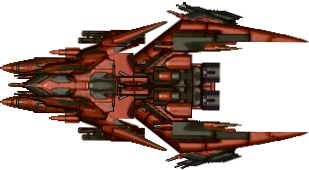
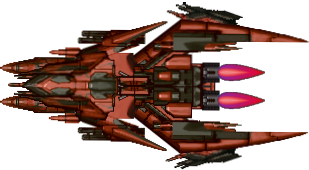
updated view.js / readme.md / updated enemy ship image / updated kill rewards - [X] change player spaceship sprite - [X] change game economy small/med/lrg asteroids & enemy bounty - [X] make pause menu same as end game menu without "game over"

Changed region(s): [[0.699, 0.5294, 0.8738, 0.6471], [0.699, 0.3529, 0.8738, 0.5]]

diff --git a/public_html/game/js/controller.js b/public_html/game/js/controller.js
@@ -97,8 +97,8 @@ class Controller {
                     let remainingAngle = 90 - shipDegree;
                     let x = (100 * Math.sin(remainingAngle * Math.PI / 180)) / Math.sin(90 * Math.PI / 180);
                     let y = (100 * Math.sin(shipDegree * Math.PI / 180)) / Math.sin(90 * Math.PI / 180);
-                    enemy.ammunition[i].x += x / 100;
-                    enemy.ammunition[i].y -= y / 100;
+                    enemy.ammunition[i].x += x / 50;
+                    enemy.ammunition[i].y -= y / 50;
                     enemy.ammunition[i].rangeTravelled += Math.abs(x);
                 }
             }
@@ -186,7 +186,7 @@ class Controller {
                         this.makeNewAsteroid(x, y, width, height, vertVelocity, horzVelocity, angle, size);
                     }
                     model.asteroidArray[asteroid].asteroidExplodeSound.play();
-                    if (model.asteroidArray[asteroid].destroyedByPlayer) model.playerScore += 10;
+                    if (model.asteroidArray[asteroid].destroyedByPlayer) model.playerScore += 100;
                     model.asteroidArray.splice(asteroid, 1); // remove old asteroid
                     model.asteroidCount--;
                     model.totalLargeAsteroidsDestroyed += 1;
@@ -221,7 +221,7 @@ class Controller {
                     newExplosion.isSmallAsteroid = true;
                     model.explosionArray.push(newExplosion);
                     model.asteroidArray[asteroid].asteroidExplodeSound.play();
-                    if (model.asteroidArray[asteroid].destroyedByPlayer) model.playerScore += 100;
+                    if (model.asteroidArray[asteroid].destroyedByPlayer) model.playerScore += 10;
                     model.asteroidArray.splice(asteroid, 1);
                     model.asteroidCount--;
                     model.totalSmallAsteroidsDestroyed += 1;
@@ -250,6 +250,7 @@ class Controller {
                 model.player.playerDied();
                 model.numPlayerLives--; // player loses 1 life
                 if (model.numPlayerLives === 0) {
+                    for (let a = 0; a < model.enemyArray.length; a++) model.enemyArray[a].enemyDied(); // remove enemy ships from map on player death
                     console.log('game over event');
                     model.gameOver = true;
                 }
@@ -277,7 +278,7 @@ class Controller {
                     model.player.playerDied();
                     model.numPlayerLives--; // player loses 1 life
                     if (model.numPlayerLives === 0) {
-                        enemy.enemyDied();
+                        for (let a = 0; a < model.enemyArray.length; a++) model.enemyArray[a].enemyDied(); // remove enemy ships from map on player death
                         console.log('game over event');
                         model.gameOver = true;
                     }
@@ -331,6 +332,7 @@ class Controller {
                         let newExplosion = new Explosion(enemyShip.x, enemyShip.y);
                         newExplosion.isEnemy = true;
                         model.explosionArray.push(newExplosion);
+                        enemyShip.destroyedByPlayer = true;
                         enemyShip.enemyDied();
                     } else {
                         enemyShip.health--;
@@ -353,8 +355,13 @@ class Controller {
                 let enemyY = enemyShip.y + enemyShip.height / 2.5;
                 if ((enemyX <= asteroidXRadiusRight && enemyX >= asteroidXRadiusLeft) &&
                     enemyY <= asteroidYRadiusDown && enemyY >= asteroidYRadiusUp && enemyShip.isAlive) {
-                    if (enemyShip.health === 0) enemyShip.enemyDied();
-                    else {
+                    if (enemyShip.health === 0) {
+                        let newExplosion = new Explosion(enemyShip.x, enemyShip.y);
+                        newExplosion.isEnemy = true;
+                        model.explosionArray.push(newExplosion);
+                        enemyShip.destroyedByAsteroid = true;
+                        enemyShip.enemyDied();
+                    } else {
                         enemyShip.health--;
                         console.log('enemy ship hit by asteroid health : ', enemyShip.health);
                         enemyShip.isHit = true;
@@ -365,8 +372,14 @@ class Controller {
         // check if enemy is dead and remove it from game / give player bounty
         for (let j = 0; j < model.enemyArray.length; j++) {
             if (!model.enemyArray[j].isAlive) {
-                model.enemyArray.splice(j, 1); // remove enemy from enemy array
-                // update player bounty--------------------------------------------------------------------------------------
+                if (model.enemyArray[j].destroyedByAsteroid) model.enemyArray.splice(j, 1); // remove enemy from enemy array
+                else if (model.enemyArray[j].destroyedByPlayer) {
+                    model.enemyArray.splice(j, 1); // remove enemy from enemy array
+                    model.playerScore += 500; // add 500 to player score
+                    model.enemiesDestroyed++;
+                } else {
+                    console.log('enemy killed by neither asteroid or player, must be game reset');
+                }
             }
         }
     }

diff --git a/public_html/game/js/enemy.js b/public_html/game/js/enemy.js
@@ -1,5 +1,7 @@
 class Enemy {
     constructor() {
+        // pause flag, to pause shooting when game is paused
+        this.pause = false;
 
         // enemy spawn sound
         this.spawnSound = new Howl({ src: ['/public_html/game/sounds/enemy_spawn.mp3'] });
@@ -38,24 +40,30 @@ class Enemy {
         // ammo
         this.ammunition = [];
         this.initializeWeapons();
+
+        // who destroyed this enemy
+        this.destroyedByPlayer = false;
+        this.destroyedByAsteroid = false;
+
     }
 
     initializeWeapons() {
         this.intervalVar = setInterval(() => {
-            for (let i = 0; i < 12; i++) {
-                let newBullet = new Bullet();
-                newBullet.isEnemyBullet = true;
-                newBullet.x = this.x;
-                newBullet.y = this.y;
-                newBullet.width = parseInt($('#enemyBullet')[0].width);
-                newBullet.height = parseInt($('#enemyBullet')[0].height);
-                newBullet.verticalVelocity = 0;
-                newBullet.horizontalVelocity = 0;
-                newBullet.angle = i;
-                this.ammunition.push(newBullet);
-                this.shoot.play();
+            if (!this.pause) {
+                for (let i = 0; i < 12; i++) {
+                    let newBullet = new Bullet();
+                    newBullet.isEnemyBullet = true;
+                    newBullet.x = this.x;
+                    newBullet.y = this.y;
+                    newBullet.width = parseInt($('#enemyBullet')[0].width);
+                    newBullet.height = parseInt($('#enemyBullet')[0].height);
+                    newBullet.verticalVelocity = 0;
+                    newBullet.horizontalVelocity = 0;
+                    newBullet.angle = i;
+                    this.ammunition.push(newBullet);
+                    this.shoot.play();
+                }
             }
-
         }, 1000);
 
 

diff --git a/public_html/game/asteroid_wars.html b/public_html/game/asteroid_wars.html
@@ -56,8 +56,11 @@
         <input class="button" id='backToMenu' value="Back to Menu" type="button" onclick="backToMenu();">
     </div>
 
-    <div id="pause">
-        <h1 id="pauseMessage">GAME PAUSED</h1>
+    <div class="infoWindow" id="pauseWindow">
+        <h1>Game Paused</h1>
+        <input class="button" id='start' value="Try Again" type="button" onclick="tryAgain();">
+        <input class="button" id='directions' value="Help" type="button" onclick="showDirections();">
+        <input class="button" id='backToMenu' value="Back to Menu" type="button" onclick="backToMenu();">
     </div>
 
     <!-- time /current player score / # lives left -->
@@ -81,9 +84,9 @@
     <img src="./graphics/spacecraft/bullet.png" id="playerBullet" width="55" height="25" alt="playerBullet" />
 
     <!-- enemy spacecraft -->
-    <img src="./graphics/enemy/enemy_spacecraft.PNG" id="enemy" width="200" height="180" alt="enemyImg" />
+    <img src="./graphics/enemy/enemy_spacecraft.PNG" id="enemy" width="200" height="160" alt="enemyImg" />
     <img src="./graphics/enemy/enemy_spacecraft_damaged.png" id="enemyDamaged" width="200" height="180" alt="enemyDamagedImg" />
-    <img src="./graphics/enemy/enemyBullet.PNG" id="enemyBullet" width="20" height="20" alt="enemyBullet" />
+    <img src="./graphics/enemy/enemyBullet.PNG" id="enemyBullet" width="10" height="10" alt="enemyBullet" />
 
     <!-- asteroids -->
     <img src="./graphics/asteroids/asteroid_large.png" id="asteroidLarge" width="200" height="200" alt="asteroidLrgImg" />

diff --git a/public_html/game/js/view.js b/public_html/game/js/view.js
@@ -52,6 +52,11 @@ $(document).ready(() => {
 
 /* cycles through the game updating every 10milliseconds to give moving image affect */
 function cycleGame() {
+    if (pause)
+        for (let k = 0; k < model.enemyArray.length; k++) model.enemyArray[k].pause = true;
+    else
+        for (let k = 0; k < model.enemyArray.length; k++) model.enemyArray[k].pause = false;
+
     if (!pause) {
         if (timeBeginflag) {
             startTime = new Date();
@@ -123,7 +128,7 @@ function initializeGame() {
         if (e.keyCode == '80') {
             if (!pause) pause = true;
             else pause = false;
-            $('#pause').toggle();
+            $('#pauseWindow').toggle();
         }
     });
     $(document).keyup((e) => {
@@ -137,10 +142,8 @@ function initializeGame() {
         if (e.keyCode == "32" && !pause) fireCannon = false;
         if (e.keyCode == "84" && !pause) respawn = false;
     });
-
     if (!firstLoad) startGame();
     else firstLoad = false;
-
 }
 
 /* draw an image onto the canvas */
@@ -335,6 +338,11 @@ function startGame() {
     timeBeginflag = true;
     $('#startWindow').css('display', 'none');
     $('#gameOverWindow').css('display', 'none');
+}
+
+/* location reload */
+function tryAgain() {
+    location.reload();
 }
 
 /* directions window */

diff --git a/public_html/game/style/asteroidminers.css b/public_html/game/style/asteroidminers.css
@@ -137,13 +137,10 @@ canvas {
     min-height: 350px;
 }
 
-#pause {
+#pauseWindow {
     z-index: 1;
     color: red;
-    font-size: 2em;
-    position: fixed;
-    top: 35%;
-    left: 35%;
+    text-align: center;
 }
 
 #player,
@@ -164,6 +161,6 @@ canvas {
 #gameOverWindow,
 #gameStats,
 #displayDirections,
-#pause {
+#pauseWindow {
     display: none;
 }

diff --git a/public_html/game/js/model.js b/public_html/game/js/model.js
@@ -12,7 +12,7 @@ class Model {
         this.totalLargeAsteroidsDestroyed = 0;
 
         // enemy stats
-        this.enemySpawnTicker = 0;
+        this.enemySpawnTicker = 0; // determines when ship is spawned (1 equals min 1)
         this.enemiesSpawned = 0;
         this.enemiesDestroyed = 0;
         this.enemyArray = [];

diff --git a/public_html/game/js/bullet.js b/public_html/game/js/bullet.js
@@ -28,7 +28,7 @@ class Bullet {
         this.angle = 0; //radians
 
         // range
-        this.range = 10000; // range of cannon
+        this.range = 100000; // range of cannon
         this.rangeTravelled = 0;
     }
 }

diff --git a/README.md b/README.md
@@ -1,4 +1,4 @@
-# AsteroidMiners
+# AsteroidWars
 
 ## Developer/s
 
@@ -29,23 +29,22 @@ Node.js, Express.js, JQuery.js, parser.js, cookie-parser.js, mongoose.js, crypto
 - [X] add explosion to destroyed asteroid/player/enemy
 - [X] add space enemy spaceship thrust pic 
 - [X] add enemy shooting functionality
-- [ ] on asteroid death add a drop (money/resource...)
-- [ ] change game economy small/med/lrg asteroids & enemy bounty
-- [ ] create more of an "asteroid wars" theme (change score to resources/income)
-- [ ] update Player schema to store new data about enemy ships (enemy killed / total enemy spawned) and add rounds
-- [ ] make pause menu same as end game menu without "game over" 
+- [X] change player spaceship sprite
+- [X] change game economy small/med/lrg asteroids & enemy bounty
+- [X] make pause menu same as end game menu without "game over" 
 - [ ] add enemy thrust sound
-- [ ] add spawn sound
+- [ ] add player spawn sound
 - [ ] add background music
-- [ ] reduce global sound volume
+- [ ] adjust volume of each sound
+- [ ] update Player schema to store new data about enemy ships (enemy killed / total enemy spawned) and add rounds
+- [ ] change "high scores" to "all scores"
 - [ ] add ability to change ordering in both highscores menu and profile menu<br/>
-      - 'high scores' to 'All scores'<br/>
       - highest to lowest (score)<br/>
       - lowest to highest (score)<br/>
       - highest to lowest (asteroids spawned)<br/>
       - lowest to highest (asteroids spawned)<br/>
       - highest to lowest (asteroids destroyed)<br/>
       - lowest to highest (asteroids destroyed)<br/>
-- [ ] change player spaceship sprite
+- [ ] change all old titles to "Asteroid Wars"
 - [ ] add favicon
 - [ ] add domain name to website.
